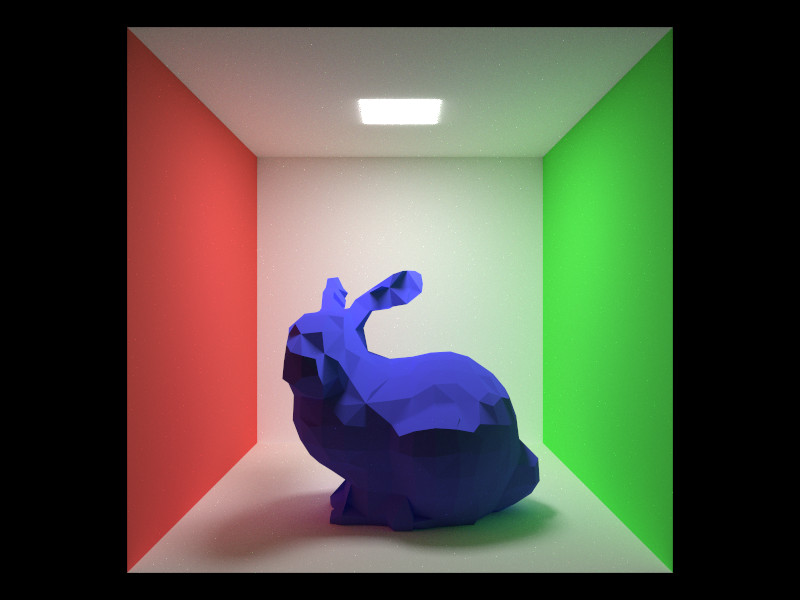
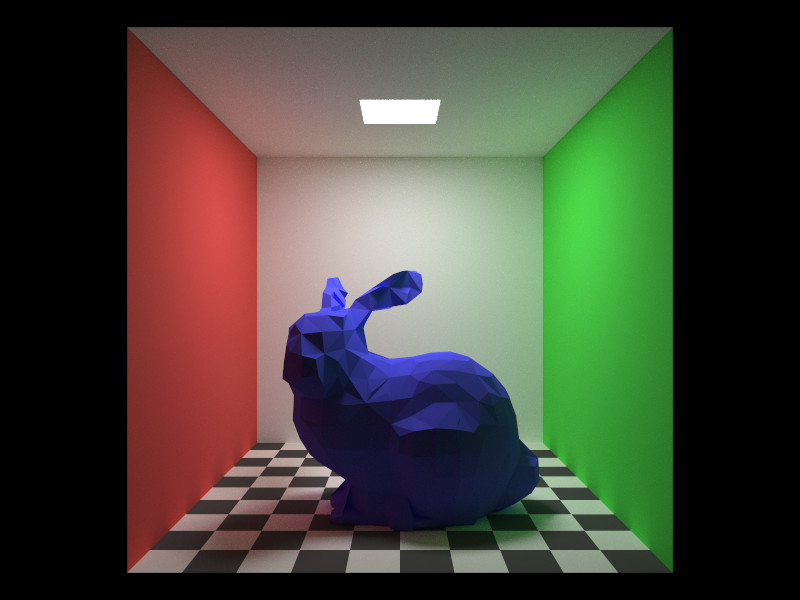
revise

diff --git a/src/main.rs b/src/main.rs
@@ -6,7 +6,7 @@ use polygon::read_ply;
 use random::FreshId;
 use render::render;
 use scene::Scene;
-use texture::Texture;
+use texture::{load_hdr, Texture};
 
 mod aabb;
 mod bvh;
@@ -80,7 +80,7 @@ fn example1() {
         800,
         450,
         Vec3(0., 0., -1.).normalize(),
-        Vec3(0., 3., 86.),
+        Vec3(0., 5., 86.),
         40.,
         2.,
         40.,
@@ -90,7 +90,7 @@ fn example1() {
         8,
     );
 
-    let scene = Scene::new(objects, Vec3::new(0.9));
+    let scene = Scene::new(objects, Texture::set_solid(Vec3::new(0.7)));
 
     let _ = render(&camera, &scene);
 }
@@ -103,11 +103,7 @@ pub fn example2() {
         Vec3(-25., 0., 0.),
         Vec3(25., 0., -50.),
         Bxdf::Lambertian,
-        Texture::CheckerTex {
-            div: 10,
-            col1: Vec3::new(0.1),
-            col2: Vec3::new(1.),
-        },
+        Texture::set_checker(10, Vec3::new(0.1), Vec3::new(1.)),
         freshid,
     );
     let rect1 = Object::set_rect(
@@ -154,7 +150,7 @@ pub fn example2() {
     let sphere = Object::set_sphere(
         Vec3(0., 10., -25.),
         10.,
-        Bxdf::MicroBtdf { a: 0.5, ior: 1.5 },
+        Bxdf::MicroBtdf { a: 0.3, ior: 1.5 },
         Texture::set_solid(Vec3::new(1.)),
         freshid,
     );
@@ -171,7 +167,76 @@ pub fn example2() {
         4,
     );
 
-    let scene = Scene::new(objects, Vec3::new(0.));
+    let scene = Scene::new(objects, Texture::set_solid(Vec3::new(0.)));
+
+    let _ = render(&camera, &scene);
+}
+
+pub fn example3() {
+    let freshid = &mut FreshId::new();
+    let (data, px_w, px_h) = load_hdr("assets/kloofendal_48d_partly_cloudy_puresky_1k.hdr");
+
+    let rect = Object::set_rect(
+        Axis::Y,
+        Vec3(-30., 0., 0.),
+        Vec3(30., 0., 60.),
+        Bxdf::Lambertian,
+        Texture::set_checker(15, Vec3::new(0.1), Vec3::new(0.5)),
+        freshid,
+    );
+
+    let sphere0 = Object::set_sphere(
+        Vec3(-18., 5., 30.),
+        4.,
+        Bxdf::MicroBrdf { ax: 0., ay: 0. },
+        Texture::set_solid(Vec3::new(1.)),
+        freshid,
+    );
+
+    let sphere1 = Object::set_sphere(
+        Vec3(-6., 5., 30.),
+        4.,
+        Bxdf::MicroBrdf { ax: 0.3, ay: 0.3 },
+        Texture::set_solid(Vec3::new(1.)),
+        freshid,
+    );
+
+    let sphere2 = Object::set_sphere(
+        Vec3(6., 5., 30.),
+        4.,
+        Bxdf::MicroBrdf { ax: 0.5, ay: 0.1 },
+        Texture::set_solid(Vec3::new(1.)),
+        freshid,
+    );
+
+    let sphere3 = Object::set_sphere(
+        Vec3(18., 5., 30.),
+        4.,
+        Bxdf::MicroBrdf { ax: 0.1, ay: 0.5 },
+        Texture::set_solid(Vec3::new(1.)),
+        freshid,
+    );
+
+    let objects = vec![&rect, &sphere0, &sphere1, &sphere2, &sphere3];
+    let camera = PinholeModel::new(
+        Vec3(0., 10., 70.),
+        800,
+        450,
+        40.,
+        Vec3(0., 0., -1.).normalize(),
+        30.,
+        8,
+        8,
+    );
+
+    let scene = Scene::new(
+        objects,
+        Texture::ImageTex {
+            data: &data,
+            px_w,
+            px_h,
+        },
+    );
 
     let _ = render(&camera, &scene);
 }
@@ -184,11 +249,7 @@ pub fn cornel_box() {
         Vec3(-25., 0., 0.),
         Vec3(25., 0., -50.),
         Bxdf::Lambertian,
-        Texture::CheckerTex {
-            div: 10,
-            col1: Vec3::new(0.1),
-            col2: Vec3::new(1.),
-        },
+        Texture::set_checker(10, Vec3::new(0.1), Vec3::new(1.)),
         freshid,
     );
     let rect1 = Object::set_rect(
@@ -228,7 +289,7 @@ pub fn cornel_box() {
         Vec3(-5., 49.99, -20.),
         Vec3(5., 49.99, -30.),
         Bxdf::Light,
-        Texture::set_solid(Vec3::new(25.)),
+        Texture::set_solid(Vec3::new(30.)),
         freshid,
     );
 
@@ -260,7 +321,7 @@ pub fn cornel_box() {
         4,
     );
 
-    let scene = Scene::new(objects, Vec3::new(0.));
+    let scene = Scene::new(objects, Texture::set_solid(Vec3::new(0.)));
 
     let _ = render(&camera, &scene);
 }
@@ -268,8 +329,9 @@ pub fn cornel_box() {
 fn main() {
     let start = std::time::Instant::now();
     //example1();
-    example2();
-    //cornel_box();
+    //example2();
+    //example3();
+    cornel_box();
     let end = start.elapsed();
     println!("{}.{:03}sec", end.as_secs(), end.subsec_nanos() / 1_000_000);
 }

diff --git a/src/radiance.rs b/src/radiance.rs
@@ -3,6 +3,7 @@ use std::io;
 use crate::{
     material::*,
     math::{dot, max_elm, multiply, Color, Vec3, EPS, PI},
+    object::sphere_uv,
     random::XorRand,
     ray::{HitRecord, Ray},
     scene::Scene,
@@ -26,7 +27,9 @@ pub fn radiance(scene: &Scene, ray: Ray, rand: &mut XorRand) -> Color {
     for time in 0.. {
         record = HitRecord::new();
         if !scene.intersect(&now_ray, &mut record, &scene.bvh_tree[0]) {
-            rad = rad + multiply(throughput, scene.background) / pdf;
+            let (u, v) = sphere_uv(&now_ray.dir, &Vec3::new(0.));
+            let background = scene.background.get_color(u, v);
+            rad = rad + multiply(throughput, background) / pdf;
             break;
         }
 
@@ -113,7 +116,7 @@ pub fn radiance(scene: &Scene, ray: Ray, rand: &mut XorRand) -> Color {
                     dir: out_dir,
                 };
 
-                throughput = multiply(throughput, record.color) * fresnel * nnt;
+                throughput = multiply(throughput, record.color) * fresnel * nnt * nnt;
                 pdf *= refl_prob;
                 brdf_sample_pdf = 1.;
             }

diff --git a/src/scene.rs b/src/scene.rs
@@ -7,17 +7,18 @@ use crate::{
     },
     random::XorRand,
     ray::{HitRecord, NeeResult, Ray},
+    texture::Texture,
 };
 
 pub struct Scene<'a> {
     pub objects: Vec<&'a Object<'a>>,
-    pub background: Color,
+    pub background: Texture<'a>,
     pub lights: Vec<&'a Object<'a>>,
     pub bvh_tree: BvhTree,
 }
 
 impl<'a> Scene<'a> {
-    pub fn new(mut objs: Vec<&'a Object>, back: Color) -> Self {
+    pub fn new(mut objs: Vec<&'a Object>, back: Texture<'a>) -> Self {
         let lights = objs
             .clone()
             .into_iter()

diff --git a/src/material.rs b/src/material.rs
@@ -73,8 +73,8 @@ pub fn refraction_dir(
     } else {
         1. - dot(refraction_dir, -normal)
     };
-    let fresnel_reflectance = r0 + (1. - r0) * c.clamp(0., 1.).powi(5);
-    let reflection_prob = 0.25 + 0.5 * fresnel_reflectance;
+    let fresnel_reflectance = r0 + (1. - r0) * c.powi(5);
+    let reflection_prob = fresnel_reflectance;
 
     if rand.next01() < reflection_prob {
         (false, reflection_dir, fresnel_reflectance, reflection_prob)

diff --git a/src/texture.rs b/src/texture.rs
@@ -24,7 +24,11 @@ pub fn load_hdr(path: &str) -> (Vec<Color>, usize, usize) {
 
     let mut data = Vec::new();
     for rgb in image.data.iter() {
-        data.push(Vec3(rgb.r as f64, rgb.g as f64, rgb.b as f64));
+        data.push(Vec3(
+            rgb.r.clamp(0., 10.) as f64,
+            rgb.g.clamp(0., 10.) as f64,
+            rgb.b.clamp(0., 10.) as f64,
+        ));
     }
 
     (data, image.width, image.height)

diff --git a/README.md b/README.md
@@ -4,19 +4,17 @@ A tiny pathtracer written in Rust
 
 ## Using crates
 
-・bmp: https://github.com/sondrele/rust-bmp
-
-・ply_rs: https://github.com/Fluci/ply-rs
-
-・linked_hash_map: https://github.com/contain-rs/linked-hash-map
-
-・rayon: https://github.com/rayon-rs/rayon
+- bmp: https://github.com/sondrele/rust-bmp
+- ply_rs: https://github.com/Fluci/ply-rs
+- linked_hash_map: https://github.com/contain-rs/linked-hash-map
+- rayon: https://github.com/rayon-rs/rayon
+- hdrldr: https://github.com/TechPriest/hdrldr
 
 ## Gallery
 
-![Image1](images/petitpt_spheres.jpg)
+![Image1](images/petitpt_dof.jpg)
 
-![Image2](images/petitpt_dof.jpg)
+![Image2](images/petitpt_mr.jpg)
 
 ![Image3](images/petitpt_bunny.jpg)
 
@@ -28,16 +26,11 @@ Stanford bunny:
 
 ## References
 
-・Henric Wann Jensen(著), 苗村 健(訳) "フォトンマッピングー実写に迫るコンピュータグラフィックス", 2002, オーム社
-
-・https://rayspace.xyz/CG/
-
-・https://kagamin.net/hole/edubpt/index.htm
-
-・Ingo Wald, Solomon Boulos, and Peter Shirley, Ray tracing deformable scenes using dynamic bounding volume hierarchies
+- Henric Wann Jensen(著), 苗村 健(訳) "フォトンマッピングー実写に迫るコンピュータグラフィックス", 2002, オーム社
+- https://rayspace.xyz/CG/
+- https://kagamin.net/hole/edubpt/index.htm
+- Ingo Wald, Solomon Boulos, and Peter Shirley, Ray tracing deformable scenes using dynamic bounding volume hierarchies
 , ACM Transactions on Graphics, Volume 26, Issue 1
-
-・https://qiita.com/omochi64/items/9336f57118ba918f82ec
-
-・Eric Heitz, Unity Technologies, Sampling the GGX Distribution of Visible Normals, Journal of Computer Graphics Techniques
+- https://qiita.com/omochi64/items/9336f57118ba918f82ec
+- Eric Heitz, Unity Technologies, Sampling the GGX Distribution of Visible Normals, Journal of Computer Graphics Techniques
 , Vol. 7, No. 4, 2018
